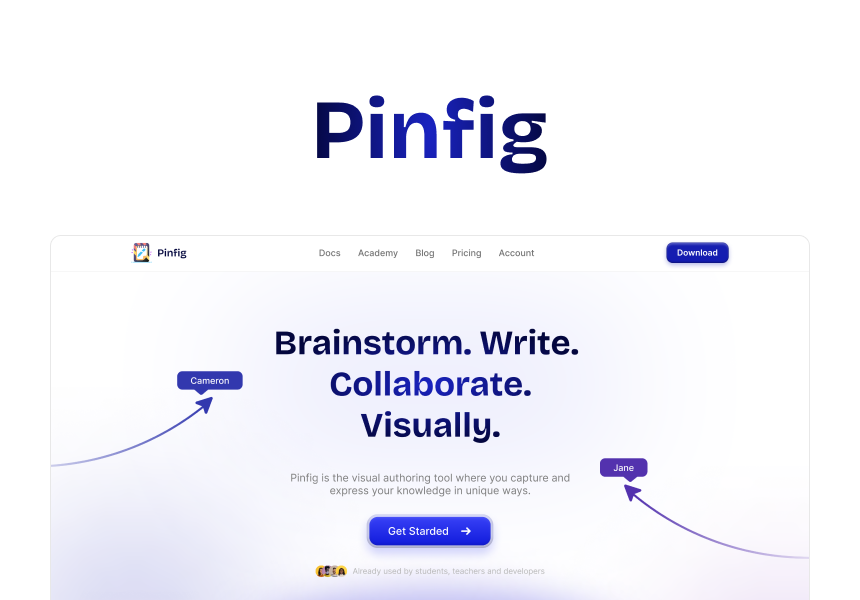
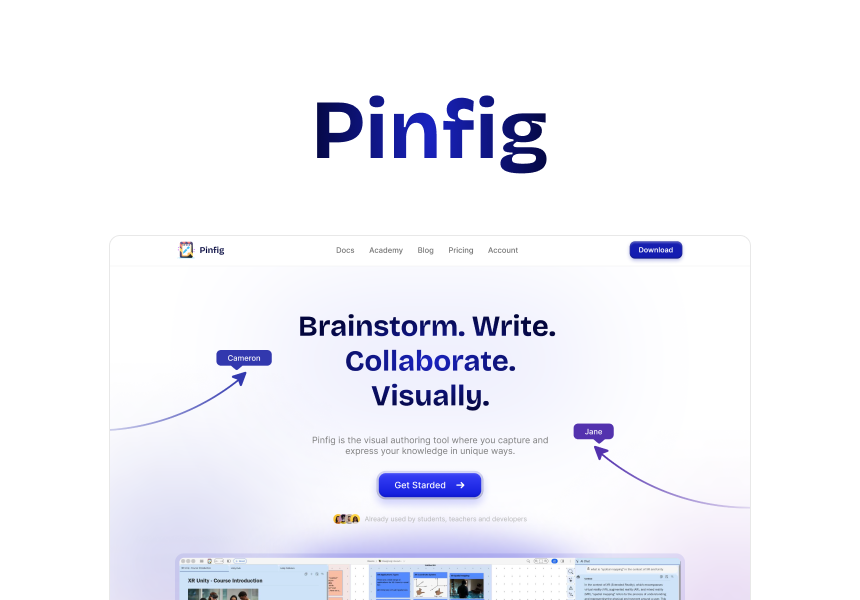
Feat: update projet thumbnails + video

diff --git a/src/styles/_globals.scss b/src/styles/_globals.scss
@@ -252,7 +252,7 @@ form {
 // Projects
 // ---------------
 
-// Contain Projects List & One Project
+// Projects List
 .projects-list ul {
   width: 100%;
   display: grid;
@@ -288,14 +288,15 @@ form {
 .tag {
   border: 1px solid vars.$border-stroke;
   padding: 4px 10px;
-  border-radius: 100px;
+  border-radius: 10px;
 }
 
+// Project Content
 .content-project {
   gap: 20px;
   margin: 0 auto;
   padding-top: 100px;
-  width: 60%;
+  width: 70%;
   .back {
     width: 100%;
     border-bottom: 1px solid vars.$border-stroke;

diff --git a/src/content/config.ts b/src/content/config.ts
@@ -7,6 +7,7 @@ const projectsCollection = defineCollection({
     description: z.string(),
     pubDate: z.string(),
     heroImage: z.string(),
+    video: z.string(),
     tags: z.array(z.string()),
     pin: z.boolean(),
   }),

diff --git a/src/content/projects/mer-projets.md b/src/content/projects/mer-projets.md
@@ -1,9 +1,10 @@
 ---
-title: "Linkdup"
-description: "<desc>"
+title: "Mer & Projets"
+description: "<description>"
 pubDate: "<date>"
-heroImage: "<img-link>"
+heroImage: "/thumbnails/mer-projets.png"
 tags: ["Design", "UI/UX"]
+video: "https://www.youtube.com/embed/15Yz6o90snY?si=Bf7o_1xzbJaMpW4Y"
 pin: true
 ---
 

diff --git a/src/content/projects/solame.md b/src/content/projects/solame.md
@@ -1,10 +1,11 @@
 ---
-title: "Kership"
+title: "Solâme"
 description: "<desc>"
 pubDate: "<date>"
-heroImage: "<img-link>"
+heroImage: "/thumbnails/solame.png"
 tags: ["Design", "UI/UX"]
-pin: true
+video: "https://www.youtube.com/embed/fzfVwGjh8X4?si=RPTueYOGG2dH68Ki"
+pin: false
 ---
 
 <div>

diff --git a/src/content/projects/webdocmmi.md b/src/content/projects/webdocmmi.md
@@ -2,9 +2,10 @@
 title: "Webdoc MMI"
 description: "<desc>"
 pubDate: "<date>"
-heroImage: "<img-link>"
+heroImage: "/thumbnails/webdocmmi.png"
 tags: ["Design", "UI/UX"]
-pin: true
+video: "https://www.youtube.com/embed/9JShxhLd5XY?si=5L4N5CA6aDlwiIHL"
+pin: false
 ---
 
 <div>

diff --git a/src/content/projects/kult.md b/src/content/projects/kult.md
@@ -2,9 +2,10 @@
 title: "Kult"
 description: "<desc>"
 pubDate: "<date>"
-heroImage: "<img-link>"
+heroImage: "/thumbnails/kult.png"
 tags: ["Design", "UI/UX"]
-pin: true
+video: "https://www.youtube.com/embed/FP4s0_ICoNs?si=l07X4LBXJ53e-Uw9"
+pin: false
 ---
 
 <div>

diff --git a/src/content/projects/revixio.md b/src/content/projects/revixio.md
@@ -4,6 +4,7 @@ description: "Une platforme web permetant de centraliser les révisions"
 pubDate: "<date>"
 heroImage: "/thumbnails/revixio.png"
 tags: ["Design", "UI/UX"]
+video: "https://www.youtube.com/embed/MIjEo5Llo08?si=NUgDXoJrDx1nOYHb"
 pin: true
 ---
 

diff --git a/src/content/projects/kership.md b/src/content/projects/kership.md
@@ -2,8 +2,9 @@
 title: "Kership"
 description: "<desc>"
 pubDate: "<date>"
-heroImage: "<img-link>"
+heroImage: "/thumbnails/kership.png"
 tags: ["Design", "UI/UX"]
+video: "https://www.youtube.com/embed/lcWugc-rqvg?si=1gRkQehjd9HNKxrA"
 pin: true
 ---
 

diff --git a/src/content/projects/onfido.md b/src/content/projects/onfido.md
@@ -2,8 +2,9 @@
 title: "Onfido"
 description: "<desc>"
 pubDate: "<date>"
-heroImage: "<img-link>"
+heroImage: "/thumbnails/onfido.png"
 tags: ["Design", "UI/UX"]
+video: "https://www.youtube.com/embed/Zjs7eX0c80w?si=4DFvO_yd_-VvjQW9"
 pin: true
 ---
 

diff --git a/src/content/projects/pinfig.md b/src/content/projects/pinfig.md
@@ -4,6 +4,7 @@ description: "Lorem ipsum dolor sit amet"
 pubDate: "Jul 08 2022"
 heroImage: "/thumbnails/pinfig.png"
 tags: ["Design", "UI/UX"]
+video: "https://www.youtube.com/embed/uiAU8YbB52c?si=sj3tuok1wvEuiW5v"
 pin: true
 ---
 

diff --git a/src/content/projects/portfolio.md b/src/content/projects/portfolio.md
@@ -2,9 +2,10 @@
 title: "Mon portfolio"
 description: "<desc>"
 pubDate: "<date>"
-heroImage: "<img-link>"
+heroImage: "/thumbnails/placeholder.png"
 tags: ["Design", "UI/UX"]
-pin: true
+video: ""
+pin: false
 ---
 
 <div>

diff --git a/src/content/projects/ct-seo.md b/src/content/projects/ct-seo.md
@@ -2,9 +2,10 @@
 title: "C&T"
 description: "<desc>"
 pubDate: "<date>"
-heroImage: "<img-link>"
+heroImage: "/thumbnails/ct-seo.png"
 tags: ["Design", "UI/UX"]
-pin: true
+video: ""
+pin: false
 ---
 
 <div>
